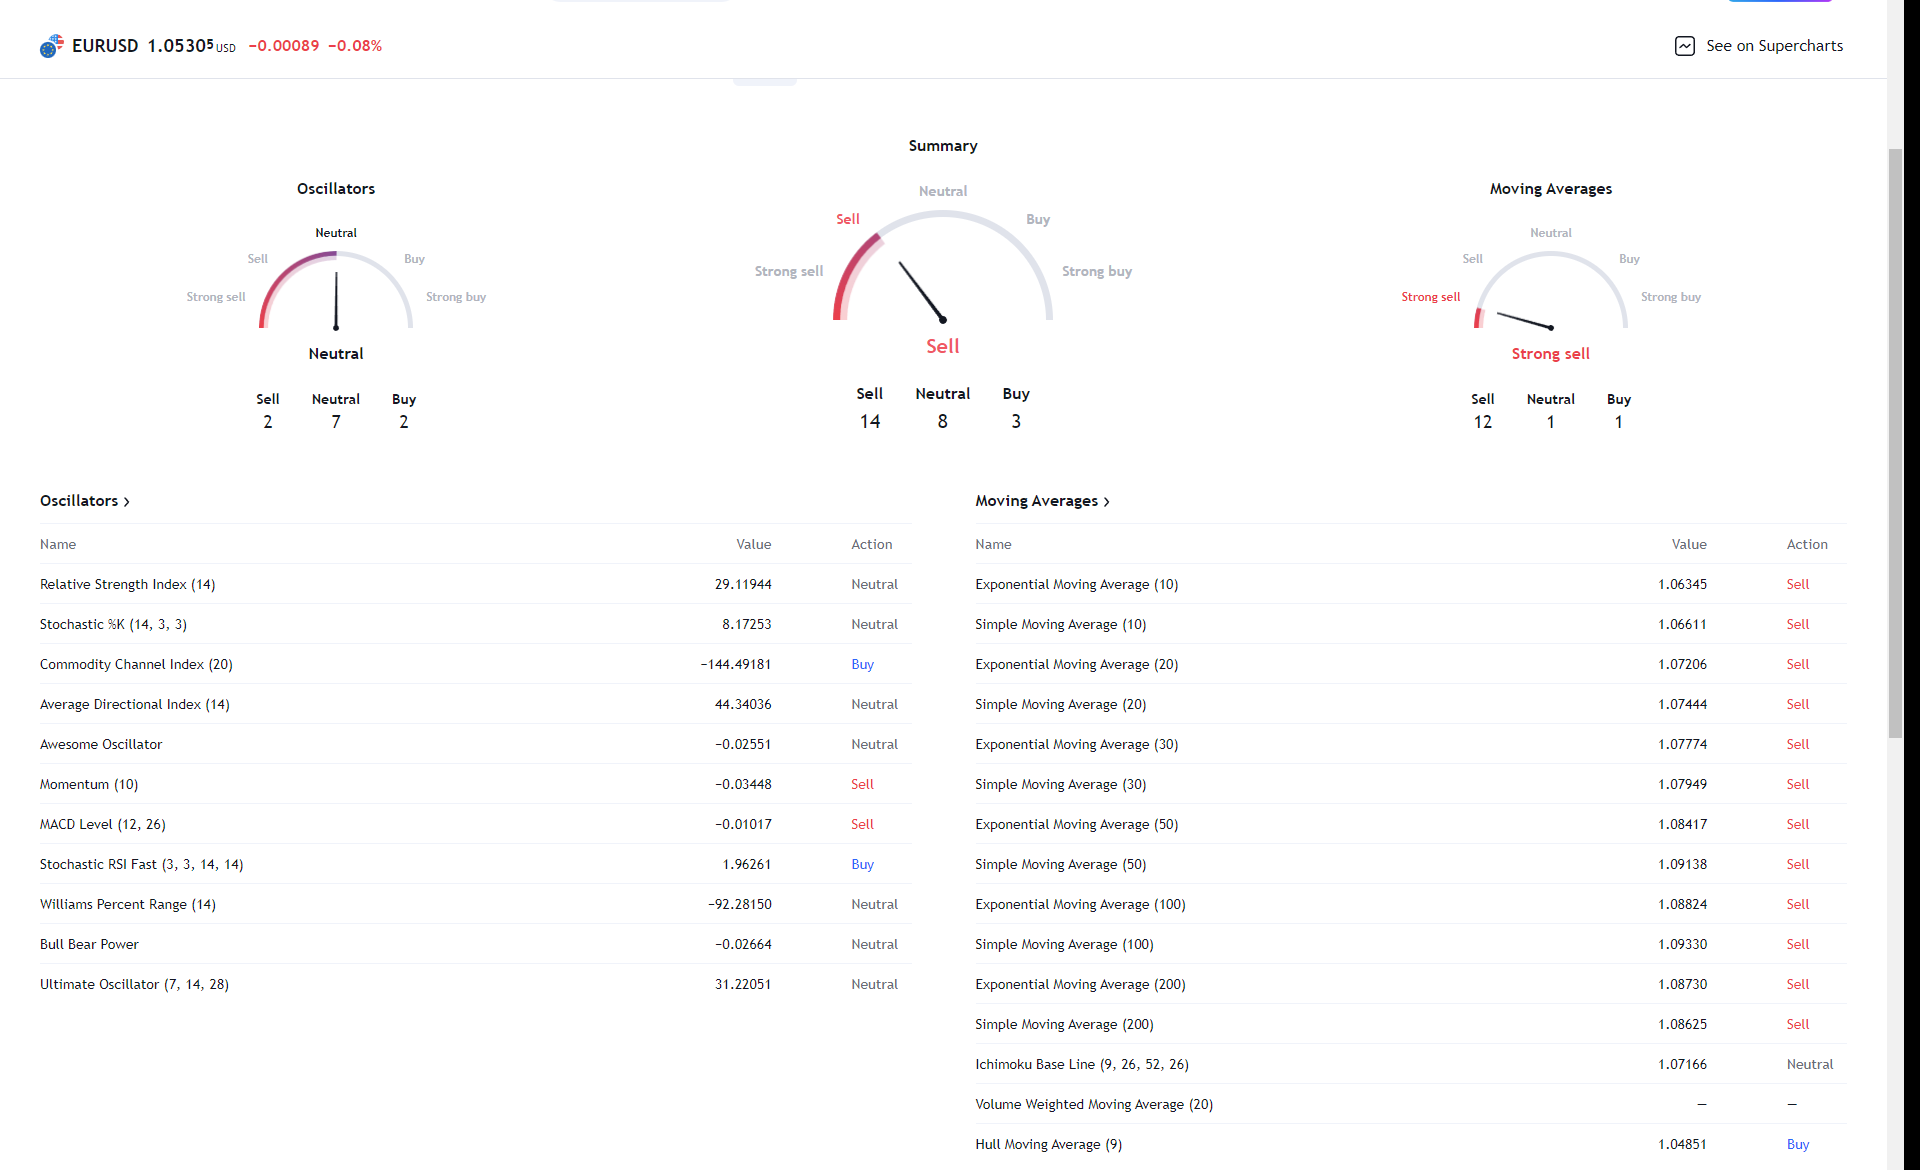
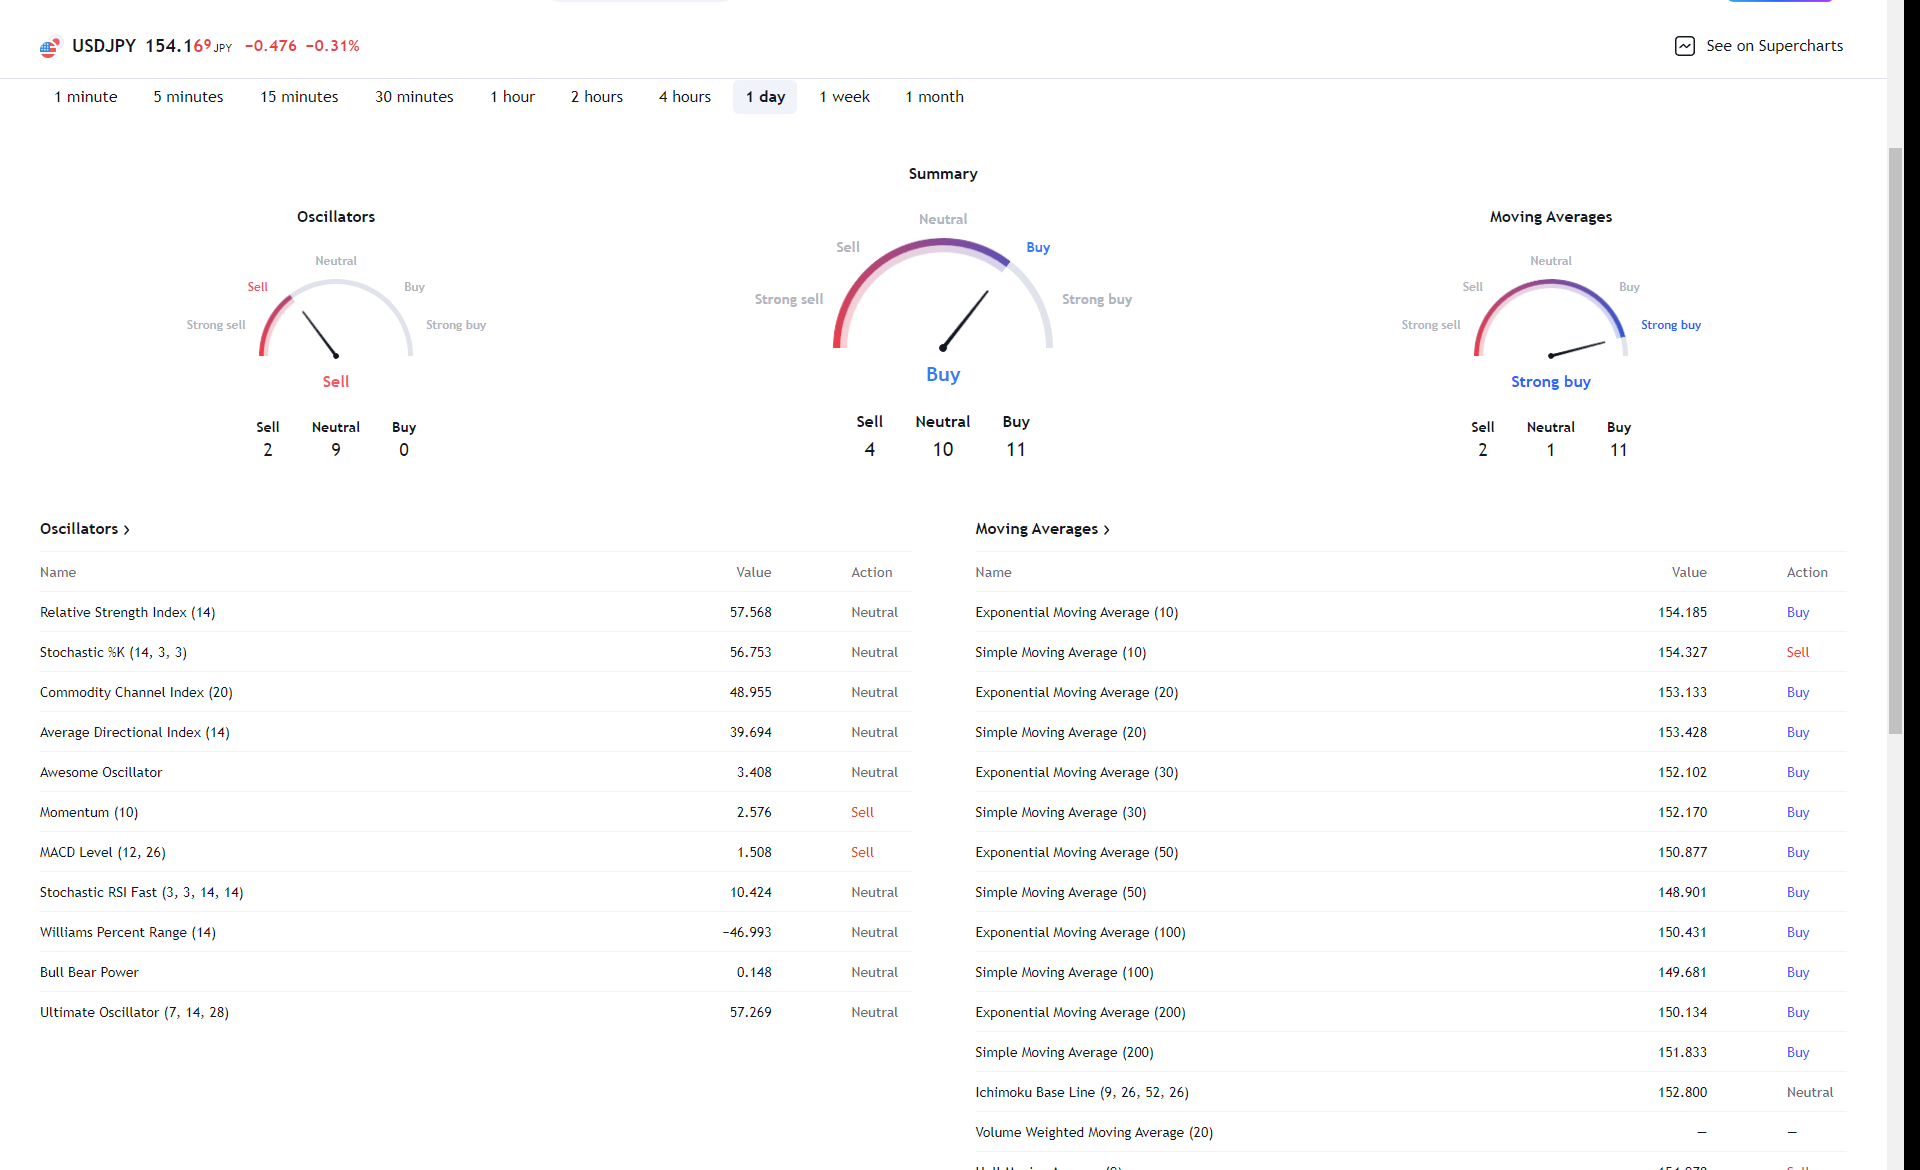
change technical analysis

diff --git a/ai/service/technical_analysis.py b/ai/service/technical_analysis.py
@@ -6,6 +6,7 @@ import base64
 from langchain_core.messages import HumanMessage, SystemMessage
 from ai.service.technical_indicators import TechnicalIndicators
 from datetime import datetime
+from ai.parameters import CURRENCY_TICKERS
 
 
 class TechnicalAnalysis:
@@ -13,7 +14,7 @@ class TechnicalAnalysis:
         self.analysis_model = analysis_model if analysis_model is not None else Config(model_name="gpt-4o-mini", temperature=0.2, max_tokens=512).get_model()
         self.synthesis_model = synthesis_model if synthesis_model is not None else Config(model_name="gpt-4o-mini", temperature=0.2, max_tokens=1024).get_model()
         self.currency_pair = currency_pair
-        self.ticker = ticker
+        self.ticker = CURRENCY_TICKERS[self.currency_pair]
 
         self.system_prompt_analysis = f"""As an expert forex analyst specializing in {self.currency_pair} pair technical analysis. You will be provided with data of {self.currency_pair} rates and technical indicators.
  You taks is to:
@@ -173,7 +174,9 @@ Below are the technical indicators with an interval of {ti_interval}.
         return synthesis
 
 if __name__ == "__main__":
-    ta = TechnicalAnalysis()
+    ta = TechnicalAnalysis(
+        currency_pair="USD/JPY"
+    )
     import time 
     begin_time = time.time()
     #rates = ta.extract_eur_usd_rate()

diff --git a/ai/service/web_scrapping_image.py b/ai/service/web_scrapping_image.py
@@ -205,5 +205,5 @@ if __name__ == "__main__":
 
     scrape_technical_indicators(
         is_local=True,
-        indicator_url="https://www.tradingview.com/symbols/EURUSD/technicals/?exchange=FX_IDC"
+        indicator_url="https://www.tradingview.com/symbols/USDJPY/technicals/?exchange=FX_IDC"
     )
